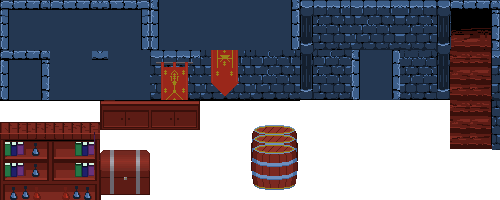
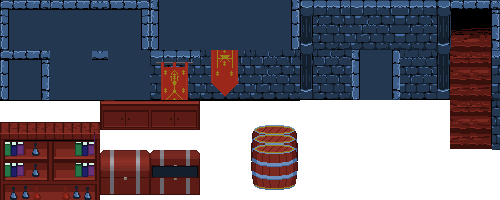
Animation code added for the Player

Changed region(s): [[0.3, 0.75, 0.42, 0.99]]

diff --git a/vince_mckeown/RPG/js/World.js b/vince_mckeown/RPG/js/World.js
@@ -9,15 +9,15 @@ var roomGrid =
       11,31,31,36,31, 0, 0, 0, 4,31,31,36,31,31,31,31,15, 0, 0, 0, 0, 0, 0, 0, 0, 0, 0, 0, 0, 0, 0, 9,      
       11,32,32,37,32, 0, 0, 0, 0,32,32,37,32,32,32,32,15, 0, 0, 0, 0, 0, 0, 0, 0, 0, 0, 0, 0, 0, 0, 9,
       11,40, 0, 0, 0, 0, 0, 0, 0, 0, 0, 0, 0, 0, 0, 0,15, 0, 0, 0, 0, 0, 0, 0, 0, 0, 0, 0, 0, 0, 0, 9,
-      11,41,43,44, 1, 1, 1,24, 1, 1, 1, 1, 1, 1, 1, 1, 1, 0, 0, 0, 0, 0, 0, 0, 0, 0, 0, 0, 0, 0, 0, 9,
-      11,42,49,50,47,23,23,25,23,43,44,23,23,23,23,23,23, 0, 0, 0, 0, 0, 0, 0, 0, 0, 0, 0, 0, 0, 0, 9,
-      11, 0,45,46,48, 0, 0, 0, 0,46,46, 0,51, 0, 0, 0, 0, 0, 0, 0, 0, 0, 0, 0, 0, 0, 0, 0, 0, 0, 0, 9,
-      11, 0, 0, 0, 0, 0, 0, 0, 0, 0, 0, 0, 0, 0, 0, 0, 0, 0, 0, 0, 0, 0, 0, 0, 0, 0, 0, 0, 0, 0, 0, 9,
-      11, 0, 0, 0, 0, 0, 0, 0, 0, 0, 0, 0, 0, 0, 0, 0, 0, 0, 0, 0, 0, 0, 0, 0, 0, 0, 0, 0, 0, 0, 0, 9,
-      11, 0, 0, 0, 0, 0, 0, 0, 0, 0, 0, 0, 0, 0, 0, 0, 0, 0, 0, 0, 0, 0, 0, 0, 0, 0, 0, 0, 0, 0, 0, 9,
-      11, 0, 0, 0, 0, 0, 0, 0, 0, 0, 0, 0, 0, 0, 0, 0, 0, 0, 0, 0, 0, 0, 0, 0, 0, 0, 0, 0, 0, 0, 0, 9,
-      11, 0, 0, 0, 0, 0, 0, 0, 0, 0, 0, 0, 0, 0, 0, 0, 0, 0, 0, 0, 0, 0, 0, 0, 0, 0, 0, 0, 0, 0, 0, 9,
-      11, 0, 0, 0, 0, 0, 0, 0, 0, 0, 0, 0, 0, 0, 0, 0, 0, 0, 0, 0, 0, 0, 0, 0, 0, 0, 0, 0, 0, 0, 0, 9,
+      11,41,43,44, 1, 1, 1,24, 1,43,44,16, 1, 1, 1, 1, 1, 0, 0, 0, 0, 0, 0, 0, 0, 0, 0, 0, 0, 0, 0, 9,
+      11,42,49,50,47,23,23,25,23,49,50,15,23,23,23,23,23, 0, 0, 0, 0, 0, 0, 0, 0, 0, 0, 0, 0, 0, 0, 9,
+      11, 0,45,46,48,51, 0, 0, 0,46,46,15, 0, 0, 0, 0, 0, 0, 0, 0, 0, 0, 0, 0, 0, 0, 0, 0, 0, 0, 0, 9,
+      11, 0, 0, 0, 0, 0, 0, 0, 0, 0, 0,15, 0, 0, 0, 0, 0, 0, 0, 0, 0, 0, 0, 0, 0, 0, 0, 0, 0, 0, 0, 9,
+      11, 0, 0, 0, 0, 0, 0, 0, 0, 0, 0,15, 0, 0, 0, 0, 0, 0, 0, 0, 0, 0, 0, 0, 0, 0, 0, 0, 0, 0, 0, 9,
+      11, 0, 0, 0, 0, 0, 0, 0, 0, 0, 0,15, 0, 0, 0, 0, 0, 0, 0, 0, 0, 0, 0, 0, 0, 0, 0, 0, 0, 0, 0, 9,
+      11, 0, 0, 0, 0, 0, 0, 0, 0, 0, 0,15, 0, 0, 0, 0, 0, 0, 0, 0, 0, 0, 0, 0, 0, 0, 0, 0, 0, 0, 0, 9,
+      11, 1, 1, 1, 1, 1, 1,24, 1, 1, 1, 1, 0, 0, 0, 0, 0, 0, 0, 0, 0, 0, 0, 0, 0, 0, 0, 0, 0, 0, 0, 9,
+      11,23,23,23,23,23,23,25,23,23,23,23, 0, 0, 0, 0, 0, 0, 0, 0, 0, 0, 0, 0, 0, 0, 0, 0, 0, 0, 0, 9,
       11, 0, 0, 0, 0, 0, 0, 0, 0, 0, 0, 0, 0, 0, 0, 0, 0, 0, 0, 0, 0, 0, 0, 0, 0, 0, 0, 0, 0, 0, 0, 9,      
       11, 0, 0, 0, 0, 0, 0, 0, 0, 0, 0, 0, 0, 0, 0, 0, 0, 0, 0, 0, 0, 0, 0, 0, 0, 0, 0, 0, 0, 0, 0, 9,
       11, 0, 0, 0, 0, 0, 0, 0, 0, 0, 0, 0, 0, 0, 0, 0, 0, 0, 0, 0, 0, 0, 0, 0, 0, 0, 0, 0, 0, 0, 0, 9,
@@ -80,7 +80,7 @@ TILE_WHISKEY_BARREL_BOTTOM = 48;
 const TILE_CABINET_1_ML = 49;
 const TILE_CABINET_1_MR = 50;
 const TILE_TREASURE_CHEST = 51;
-
+const TILE_TREASURE_CHEST_OPEN = 52;
 
 function roomTileToIndex(tileCol, tileRow) {
   return (tileCol + ROOM_COLS*tileRow);
@@ -123,6 +123,7 @@ function tileTypeHasTransparency(checkTileType) {
           checkTileType == TILE_CABINET_1_BL ||
           checkTileType == TILE_CABINET_1_BR ||
           checkTileType == TILE_TREASURE_CHEST ||
+          checkTileType == TILE_TREASURE_CHEST_OPEN ||
           checkTileType == TILE_DOOR);
 }
 

diff --git a/vince_mckeown/RPG/js/Warrior.js b/vince_mckeown/RPG/js/Warrior.js
@@ -18,6 +18,10 @@ function warriorClass() {
     this.sframes = 0; //frames total per animation
     this.width = 50; //width of image
     this.height = 50; //height of image
+    this.frameCount = 0; //counting the Game FPS for this character
+    this.advanceFrameAmount = 5; //advance frame (this example: 12 times a second)
+    this.spriteNumberOfFrames = 5; // this represents 4 frames of walking
+    this.frameIndex = 0; //Animation frame for this character
 
     // keyboard hold state variables, to use keys more like buttons
     this.keyHeld_North = false;
@@ -125,18 +129,21 @@ function warriorClass() {
         if (this.keyHeld_North) {
             nextY -= PLAYER_MOVE_SPEED;
             this.sy = this.sheight;
-        }
-        if (this.keyHeld_East) {
+            this.moving = true;
+        } else if (this.keyHeld_East) {
             nextX += PLAYER_MOVE_SPEED; 
             this.sy = this.sheight*2;
-        }
-        if (this.keyHeld_South) {
+            this.moving = true;
+        } else if (this.keyHeld_South) {
             nextY += PLAYER_MOVE_SPEED;
             this.sy = 0;
-        }
-        if (this.keyHeld_West) {
+            this.moving = true;
+        } else if (this.keyHeld_West) {
             nextX -= PLAYER_MOVE_SPEED;
             this.sy = this.sheight*3;
+            this.moving = true;
+        } else {
+         //   this.moving = false;
         }
 
         var walkIntoTileIndex = getTileIndexAtPixelCoord(nextX, nextY);
@@ -186,6 +193,11 @@ function warriorClass() {
                     SetupPathfindingGridData(p1);
                 }
                 break;
+            case TILE_TREASURE_CHEST:
+                this.keysHeld--; // one less key
+                roomGrid[walkIntoTileIndex] = TILE_TREASURE_CHEST_OPEN; 
+                SetupPathfindingGridData(p1);
+                break;
             case TILE_KEY:
                 this.keysHeld++; // gain key
                 document.getElementById("debugText").innerHTML = "Keys: " + this.keysHeld;
@@ -212,6 +224,22 @@ function warriorClass() {
     }
 
     this.draw = function() {
+      if(this.moving){
+		this.frameCount++;
+		if (this.frameCount > this.advanceFrameAmount) {
+			this.frameCount = 0;
+			if(this.spriteIndex < this.spriteNumberOfFrames-1) {
+				this.spriteIndex += 1;
+			} else {
+				this.spriteIndex = 1;
+			}
+        }
+      } else {
+        this.spriteIndex = 0;
+      }
+
+      this.sx = this.spriteIndex * this.width; //this advances the frame for animation
+
       canvasContext.drawImage(this.myBitmap,this.sx,this.sy, this.swidth, this.sheight, this.x - 25, this.y -25, 50, 50);
     }
 

diff --git a/vince_mckeown/RPG/js/ImageLoading.js b/vince_mckeown/RPG/js/ImageLoading.js
@@ -66,8 +66,10 @@ function loadImages() {
     //ROW 4
     {tileType:TILE_CABINET_1_ML, imgX: 0, imgY: 150, theFile:"dungeonWalls.png"},
     {tileType:TILE_CABINET_1_MR, imgX: 50, imgY: 150, theFile:"dungeonWalls.png"},
-    {tileType:TILE_WHISKEY_BARREL_BOTTOM, imgX: 250, imgY: 150, theFile:"dungeonWalls.png"},
     {tileType:TILE_TREASURE_CHEST, imgX: 100, imgY: 150, theFile:"dungeonWalls.png"},
+    {tileType:TILE_TREASURE_CHEST_OPEN, imgX: 150, imgY: 150, theFile:"dungeonWalls.png"},
+    {tileType:TILE_WHISKEY_BARREL_BOTTOM, imgX: 250, imgY: 150, theFile:"dungeonWalls.png"},
+
     
     //END SPRITE SHEET
     
